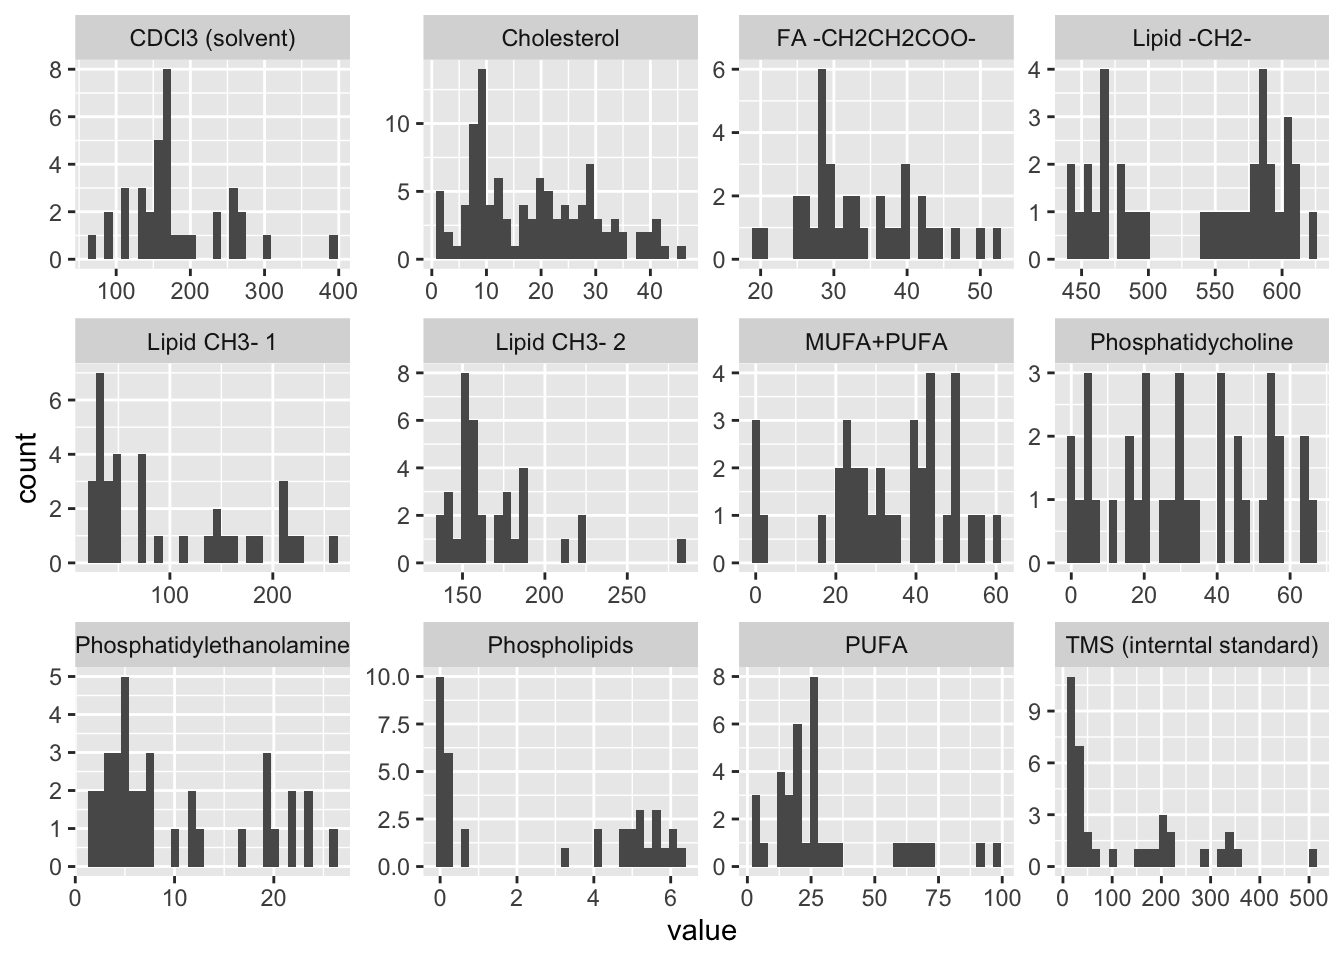
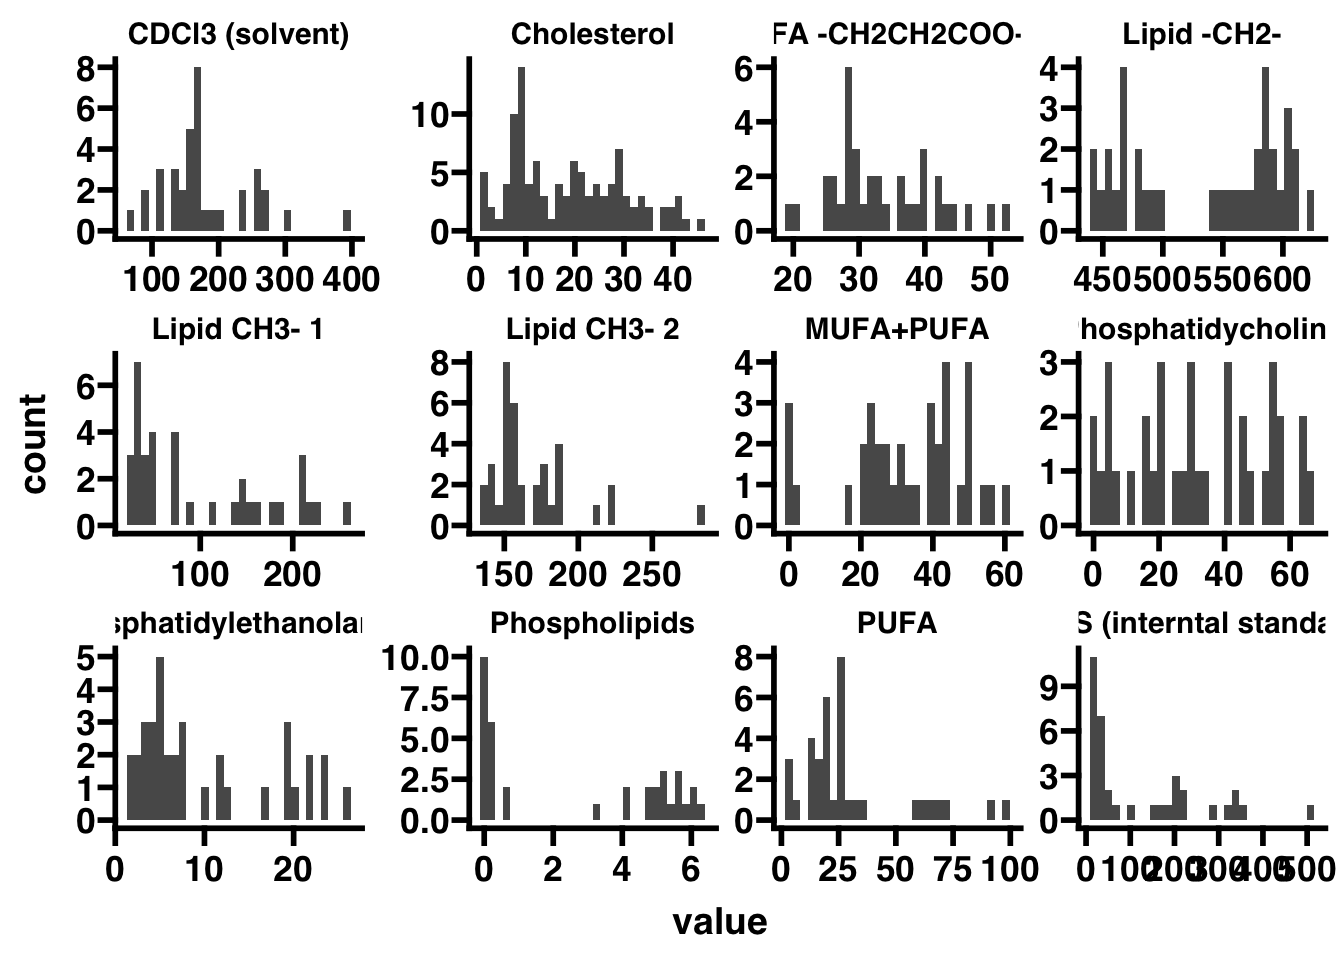
add tidymodels packages to the description file

diff --git a/doc/learning.html b/doc/learning.html
@@ -195,6 +195,10 @@ pre > code.sourceCode > span > a:first-child::before { text-decoration: underlin
 <div class="cell-output cell-output-stderr">
 <pre><code>`stat_bin()` using `bins = 30`. Pick better value with `binwidth`.</code></pre>
 </div>
+<div class="cell-output cell-output-stderr">
+<pre><code>Warning in plot_theme(plot): The `prism.ticks.length` theme element is not
+defined in the element hierarchy.</code></pre>
+</div>
 <div class="cell-output-display">
 <div>
 <figure class="figure">
